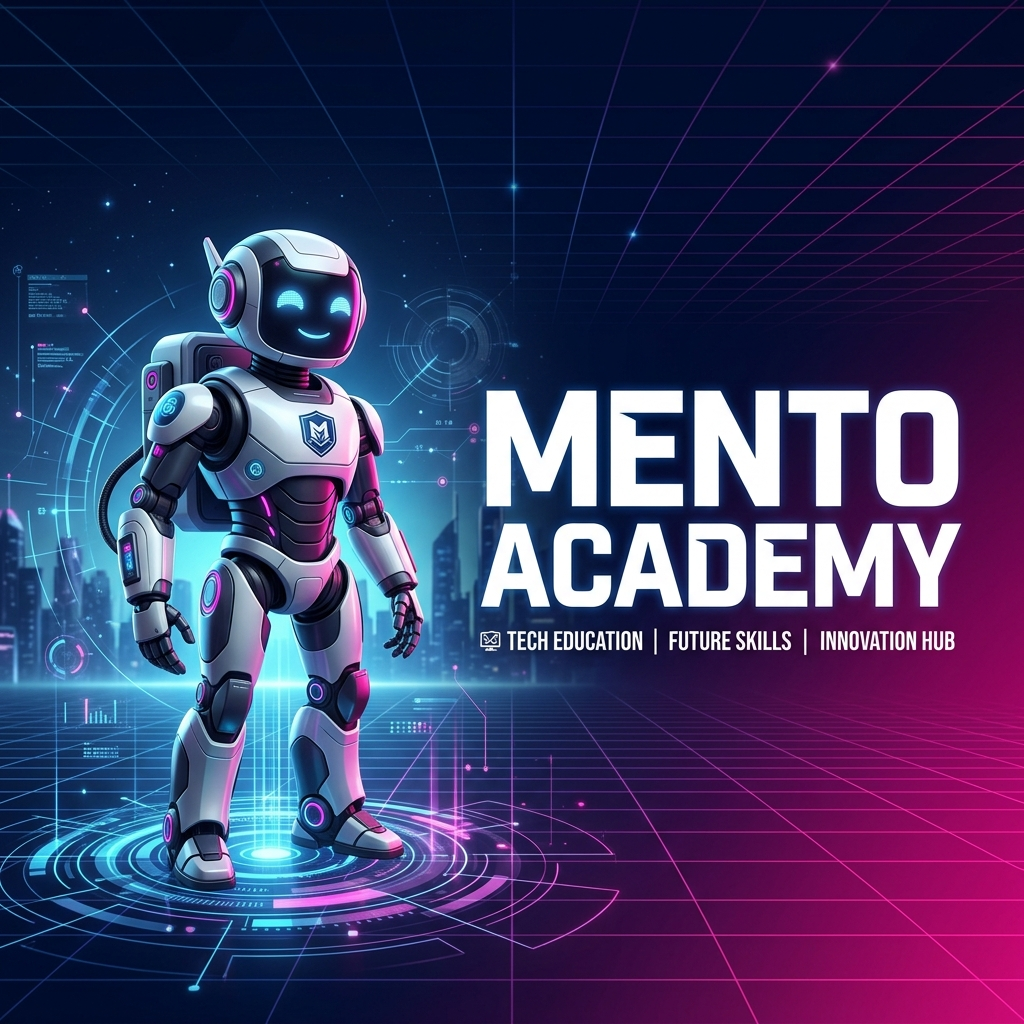
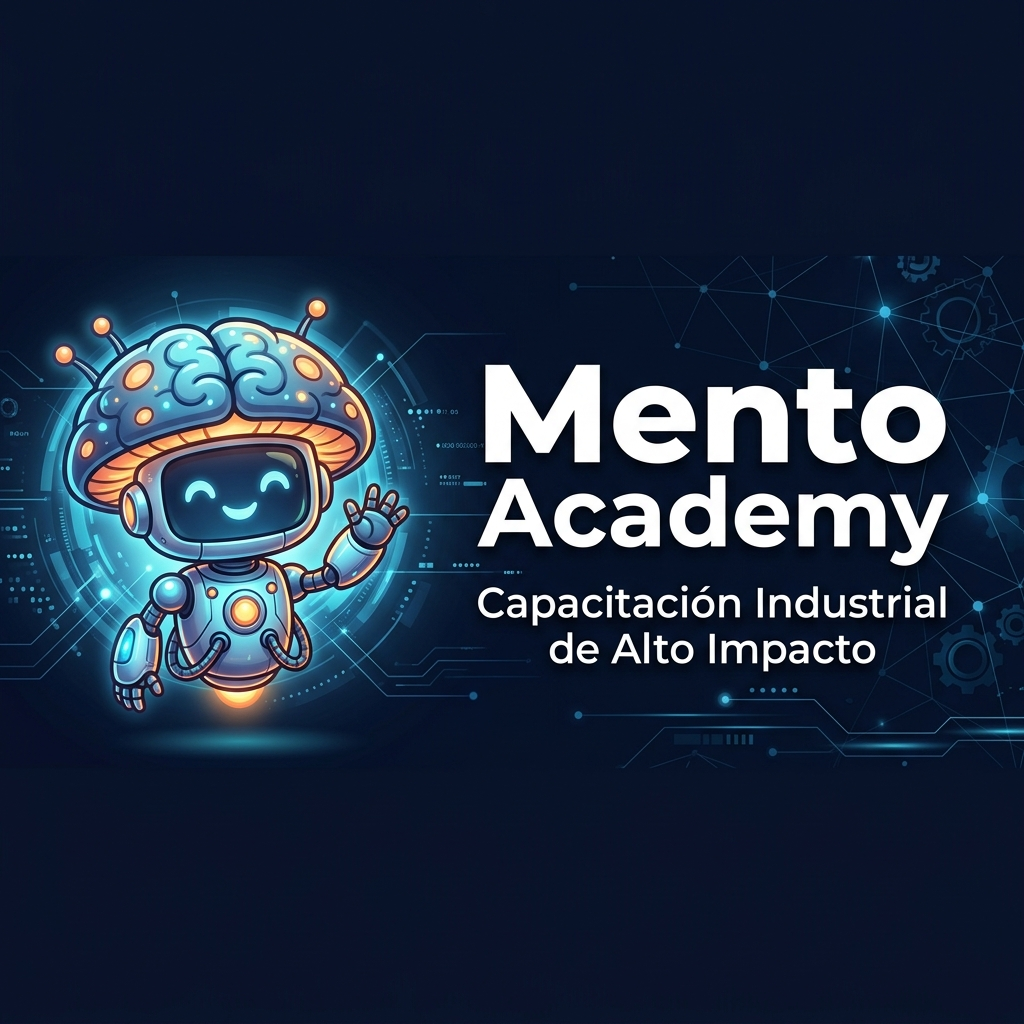
fix: update metadataBase and og-image for correct social sharing preview

diff --git a/app/layout.tsx b/app/layout.tsx
@@ -21,20 +21,27 @@ export const metadata: Metadata = {
     template: '%s | Mento Academy',
   },
   description: 'La primera plataforma de capacitación para industrias basada en ciencia cognitiva y validada por expertos. Microlearning, video-first y gamificación para personal operativo.',
-  metadataBase: new URL('https://mento.lat'),
+  metadataBase: new URL('https://landingmentoacademy.vercel.app'),
   openGraph: {
-    title: 'Mento Academy — Aprender haciendo, no mirando',
-    description: 'Capacitación con IA que sí entrena. Roleplay por voz, evaluación inmediata, sin manuales.',
-    url: 'https://mento.lat',
+    title: 'Mento Academy — Capacitación Industrial de Alto Impacto',
+    description: 'La primera plataforma de capacitación para industrias basada en ciencia cognitiva. Microlearning, video-first y gamificación para personal operativo.',
+    url: 'https://landingmentoacademy.vercel.app',
     siteName: 'Mento Academy',
     locale: 'es_AR',
     type: 'website',
-    images: ['/og-image.png'],
+    images: [
+      {
+        url: '/og-image.png',
+        width: 1200,
+        height: 630,
+        alt: 'Mento Academy',
+      },
+    ],
   },
   twitter: {
     card: 'summary_large_image',
     title: 'Mento Academy',
-    description: 'Aprender haciendo, no mirando.',
+    description: 'Capacitación industrial basada en ciencia cognitiva.',
     images: ['/og-image.png'],
   },
   icons: {